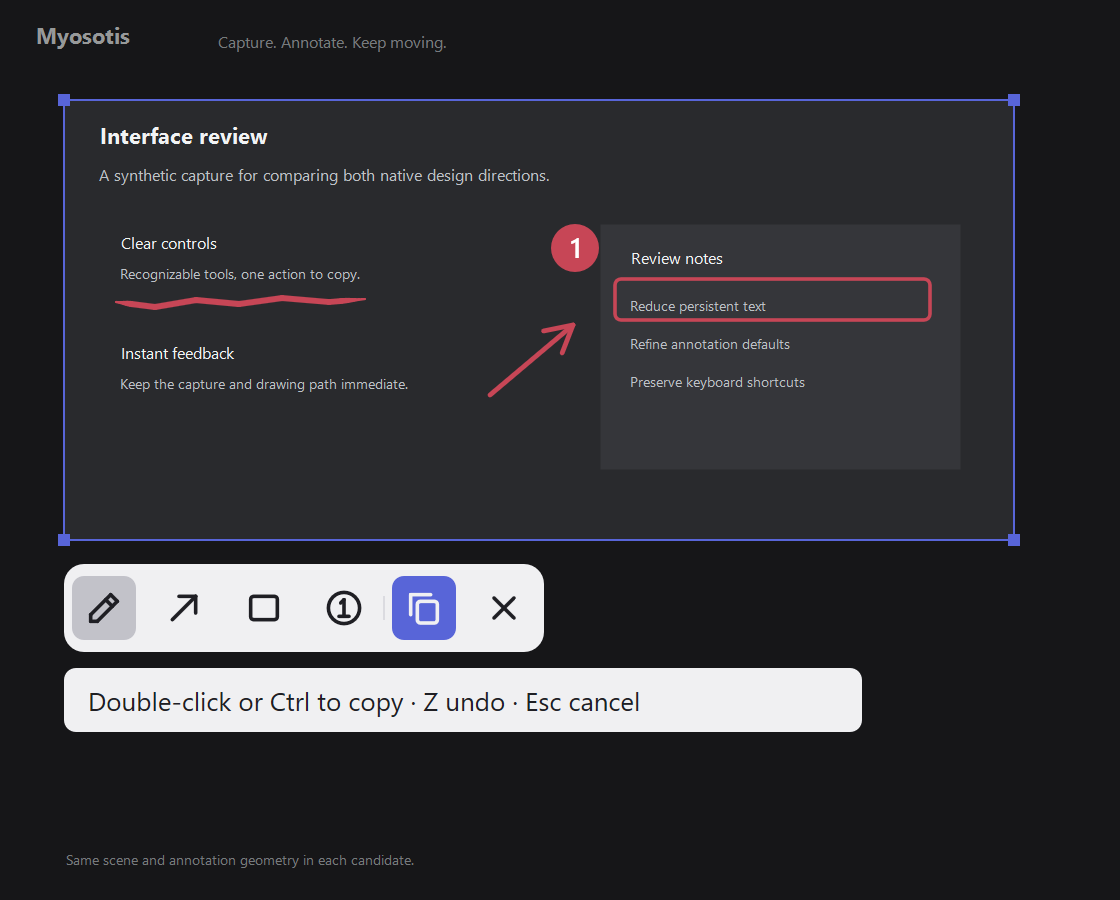
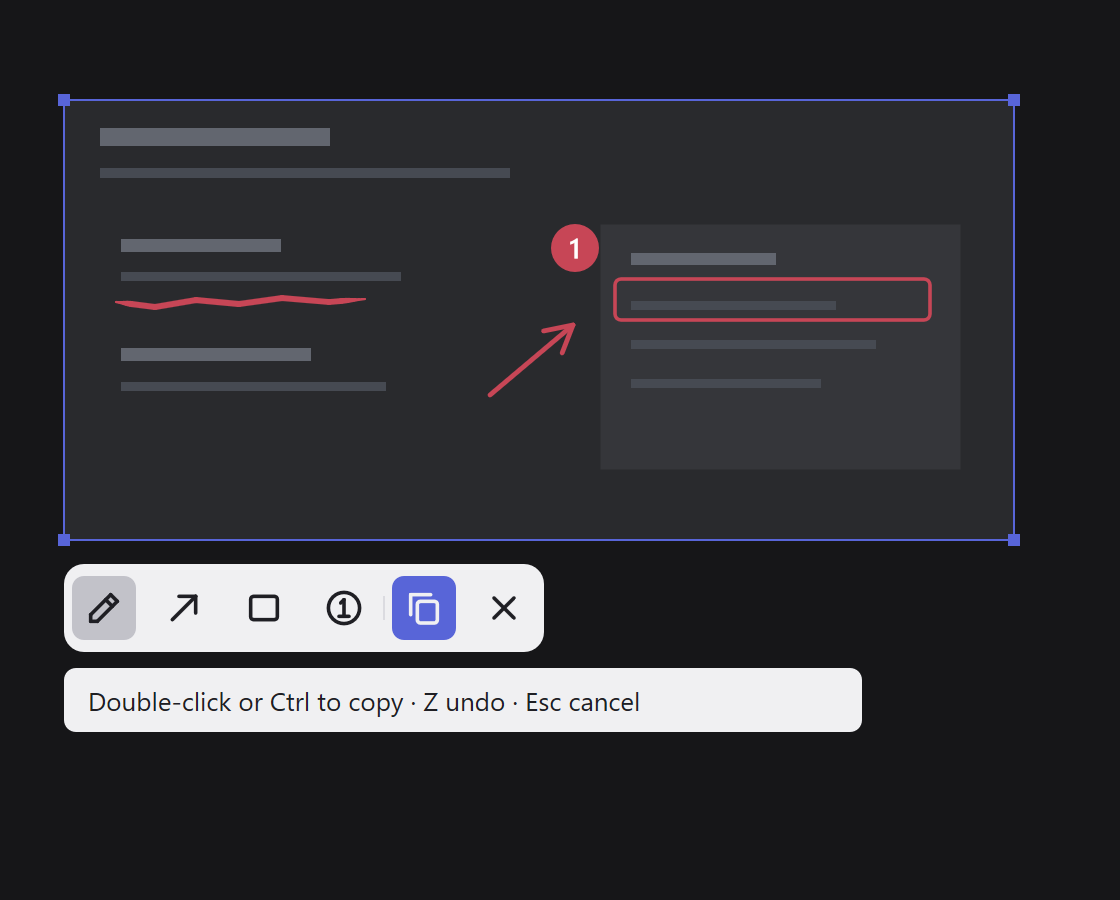
Refresh README visuals and simplify privacy copy

diff --git a/README.md b/README.md
@@ -18,7 +18,7 @@ The default dark toolbar stays consistent across light and dark screenshots. The
 
 ## Get started
 
-![Input schema: view capture, drawing, copy, and history shortcuts in one window](docs/images/input-schema-light.png)
+<img src="docs/images/input-schema-light.png" width="344" alt="Input schema: capture, drawing, copy, and history shortcuts">
 
 The native MVP supports **Windows 11 x64**. Download [version 0.2.1](https://github.com/nekoium/Myosotis/releases/tag/v0.2.1), extract the ZIP, and run `Myosotis/myosotis.exe`. It is a portable app using Windows graphics and image facilities; no additional application runtime is required. The executable is currently unsigned. macOS and Linux are planned.
 
@@ -126,13 +126,9 @@ Double-click quickly and keep the pointer nearly still. Myosotis uses its own sh
 
 ## Privacy and limitations
 
-Capture and annotation happen locally. Myosotis does not upload images or connect to your agent. It puts the finished image on the Windows clipboard as a bitmap and PNG. **Save to local** is off by default; when enabled, completed captures also remain as PNG files in **Pictures\Screenshots** until you delete them. If your Pictures folder is synchronized by OneDrive or another service, those files follow that service's settings. Windows clipboard history, synchronization, and other clipboard-reading applications can access clipboard images according to your system settings.
+Your images stay yours. Myosotis works entirely on your device, without internet connections or image uploads.
 
-Pen strokes taper at the start and end. Mouse drawing uses mild speed-based width variation; valid stylus pressure controls the width instead. Captured positions are preserved without artificial path smoothing. Annotations use refined coral ink, and numbered badges widen to fit multiple digits.
-
-This MVP uses a fixed drawing color and preset line weights for each tool. Erasers, editable shapes, and screen-reader access to individual drawn toolbar controls are not implemented. Keyboard shortcuts are available for every tool, copy, and cancellation. Pressure input has been checked with synthetic Windows pen input; real stylus hardware remains unqualified. Small antialias seams and preview/export pixel differences remain known rendering limitations.
-
-HDR output, protected content, secure desktops, and mixed-DPI multi-monitor arrangements have not been fully validated. Changing the display arrangement during a capture cancels that capture. Keep a separate copy of anything important before closing an overlay; annotations are not saved between captures.
+HDR captures may not reproduce on-screen colors accurately.
 
 ## Feedback
 
